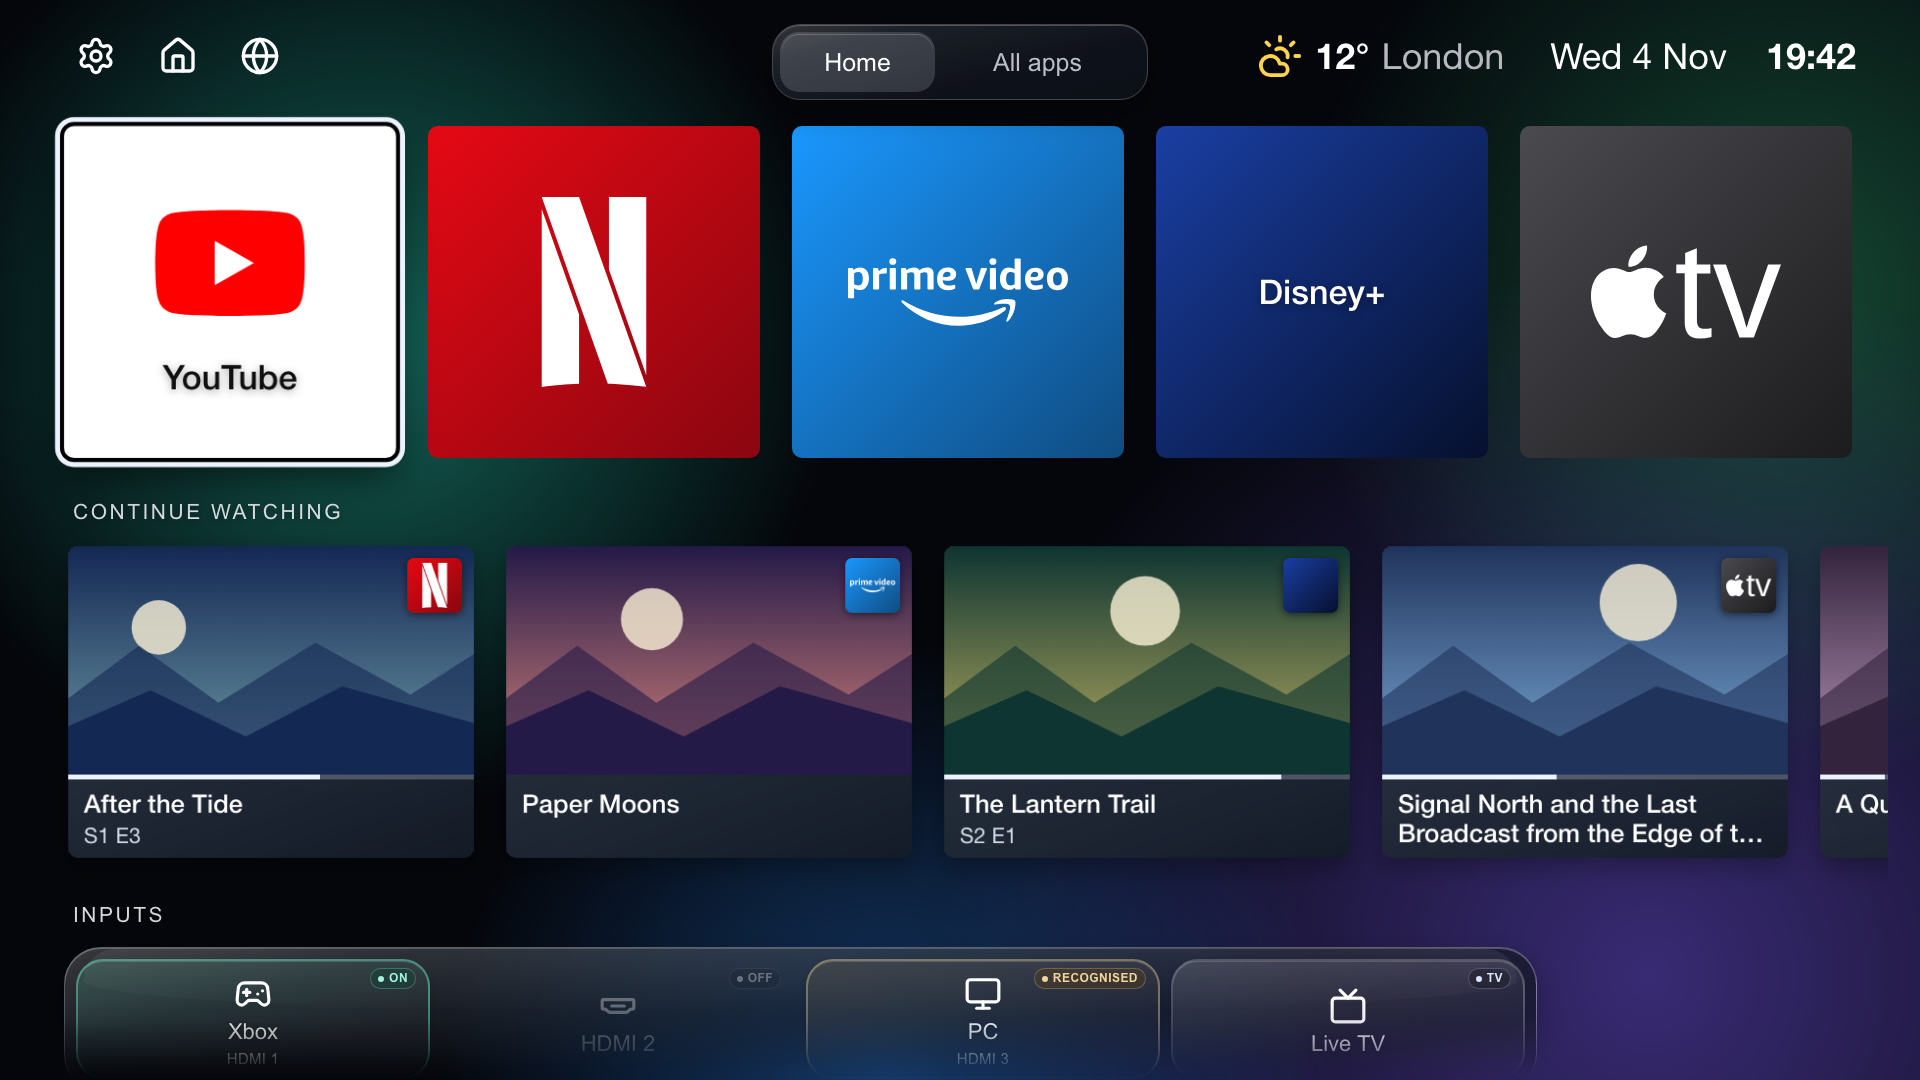
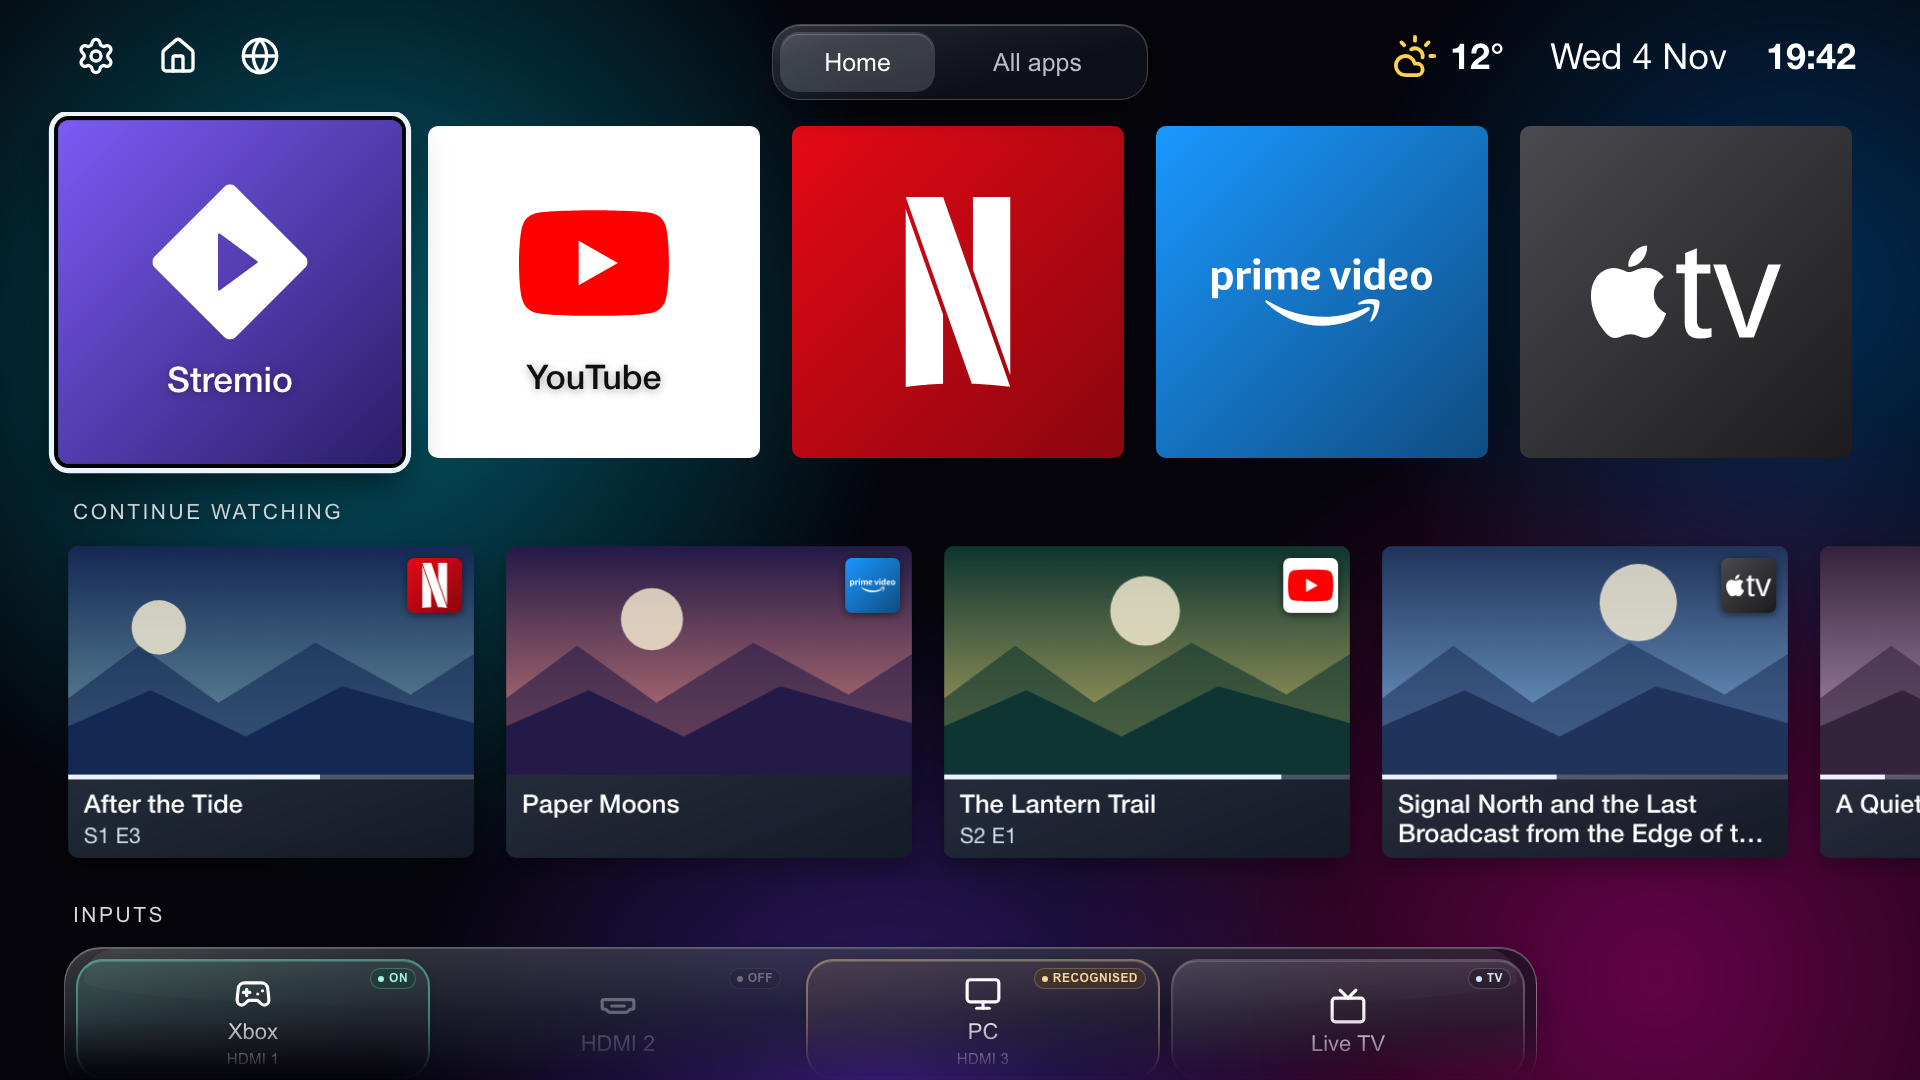
fix(launcher): correct Home scrolling and wallpaper controls (#134)
Follow-up to #125 and #132. Fix visible clipping and focus issues in
Home, All apps, and Wallpaper settings.

## What changed

- **Continue Watching.** Clip the carousel at the screen edges and let
the focused card's shadow fade below the row. All five sample programmes
show source badges in the browser demo.
- **All apps.** Keep Back to Top in place when Up returns focus to the
last app row. Give the button a solid fill, a brighter border, and a
separate focus ring.
- **Wallpaper.** Centre the play icon and Preview label on one line.
Keep wallpaper labels at the same size and weight as focus moves.

## Validation

- Formatting, lint, TypeScript, the Chromium 69 build, 268 Node tests,
and 131 Chromium tests passed.
- Checked both screen edges, Classic and Glass focus, demo badges, and
entering and leaving Preview.

## Screenshots

Captured in Chromium at 1920 × 1080 using the Glass browser demo. The
Wallpaper images are cropped to the controls.

**Continue Watching after scrolling right**

<img width="960" alt="Continue Watching cards reach the screen edge,
with all five source badges visible"
src="https://github.com/user-attachments/assets/a9f765d9-89b2-45bf-8b19-0c6be49f4091"
/>

**All apps after pressing Up from Back to Top**

<img width="960" alt="The last app row has focus and the Back to Top
button remains visible at the bottom"
src="https://github.com/user-attachments/assets/e9b240fb-abde-45be-b53d-8f607e27151e"
/>

**Wallpaper Preview**
[…]

diff --git a/launcher/src/home/state/createHomeController.ts b/launcher/src/home/state/createHomeController.ts
@@ -117,6 +117,7 @@ export const createHomeController = (
   const { runtime, settings, inventory, nodes } = env;
   const state = createStore<HomeState>({
     page: "home",
+    appsEndOffset: 0,
     scroll: 0,
     continueOffset: 0,
     selected: "",
@@ -214,27 +215,27 @@ export const createHomeController = (
       }
     }
     const mainTop = main.getBoundingClientRect().top;
-    if (selected === "back-to-top") {
-      const lastApp = nodes.get(list[list.length - 2][0]);
-      const grid = lastApp?.parentElement;
-      if (lastApp && grid) {
-        // The grid edge stays fixed while the last app's focus scale animates.
-        const lastRowTop = grid.getBoundingClientRect().bottom - lastApp.offsetHeight;
-        update({ scroll: Math.max(0, lastRowTop - mainTop - APPS_END_CLEARANCE) });
-        return;
-      }
+    const lastAppRow = pending.page === "apps" ? list[list.length - 2] : undefined;
+    const lastApp = lastAppRow && nodes.get(lastAppRow[0]);
+    const grid = lastApp?.parentElement;
+    // The grid edge stays fixed while the last app's focus scale animates.
+    const lastRowTop = lastApp && grid ? grid.getBoundingClientRect().bottom - lastApp.offsetHeight - mainTop : 0;
+    const appsEndOffset = Math.max(0, Math.round(lastRowTop - APPS_END_CLEARANCE));
+    if (selected === "back-to-top" || (pending.scroll === pending.appsEndOffset && lastAppRow?.includes(selected))) {
+      update({ appsEndOffset, scroll: appsEndOffset });
+      return;
     }
     const rect = node.getBoundingClientRect();
     const origin = main.parentElement?.getBoundingClientRect().top || 0;
     const scroll = getScrollOffset({
       selected,
       rows: list,
-      previous: state.getSnapshot().scroll,
+      previous: pending.scroll,
       top: rect.top - mainTop + origin,
       bottom: rect.bottom - mainTop + origin,
       origin,
     });
-    update({ scroll });
+    update({ appsEndOffset, scroll });
   };
   const select = (selected: string) => {
     if (state.getSnapshot().selected !== selected) {
@@ -258,7 +259,7 @@ export const createHomeController = (
   const showPage = (page: Page) => {
     cancelPress();
     endMove();
-    update({ page, scroll: 0, menu: null, selected: page === "home" ? "home-tab" : "apps-tab" });
+    update({ page, appsEndOffset: 0, scroll: 0, menu: null, selected: page === "home" ? "home-tab" : "apps-tab" });
     focus();
   };
   const activate = (key: string) => {

diff --git a/launcher/src/home/Home.tsx b/launcher/src/home/Home.tsx
@@ -16,7 +16,7 @@ import type { HomeEnvironment } from "./types";
 export const Home = ({ env }: { env: HomeEnvironment }) => {
   const { t } = useTranslation();
   const settings = useStore(env.settings);
-  const { page, active, draft, scroll, selected } = useStore(env.state);
+  const { page, active, appsEndOffset, draft, scroll } = useStore(env.state);
   const { apps, inputs, items, ready } = useStore(env.inventory);
   const home = draft || (settings.homeInitialized ? settings.home : [env.runtime.config.FIREPLACE_ID]);
   const visibleHome = home.filter(
@@ -31,19 +31,21 @@ export const Home = ({ env }: { env: HomeEnvironment }) => {
     visibleHome.length > 0 &&
     visibleHome.length <= env.columns(settings);
   const viewportClass = "content-viewport" + (scroll > 0 ? " is-scrolled" : "");
+  const atAppsEnd = page === "apps" && scroll === appsEndOffset;
+  const dockClass = dockInputs ? "rows--dock-inputs" : undefined;
   useLayoutEffect(() => {
     env.bridge.focus();
   }, [env, page, apps, inputs, items, ready, settings.home, settings.homeInitialized, draft, size]);
   return (
     <>
       <HomeHeader env={env} />
-      <div class={viewportClass + (selected === "back-to-top" ? " is-at-apps-end" : "")} aria-hidden={!active}>
+      <div class={viewportClass + (atAppsEnd ? " is-at-apps-end" : "")} aria-hidden={!active}>
         <div class="content-mask">
           <main
             id="rows"
-            class={dockInputs ? "rows--dock-inputs" : undefined}
+            class={page === "apps" ? "rows--apps" : dockClass}
             ref={env.rows}
-            style={{ "--home-offset": -scroll + "px" }}
+            style={{ "--home-offset": -scroll + "px", "--apps-end-offset": appsEndOffset + "px" }}
           >
             <div class="home-page-surface" data-page={page}>
               <AppGrid

diff --git a/launcher/css/home.css b/launcher/css/home.css
@@ -1,6 +1,7 @@
 /* Home viewport, page movement and content spacing. */
 body {
   --home-content-padding: 8px;
+  --home-side-padding: 64px;
 }
 
 .content-viewport {
@@ -20,10 +21,13 @@ body {
   justify-content: center;
   width: 64px;
   height: 64px;
-  margin: 64px auto 0;
-  border: 2px solid var(--header-tab-border);
+  position: absolute;
+  bottom: calc(var(--home-bottom-fade) - var(--apps-end-offset));
+  left: 50%;
+  transform: translateX(-50%);
+  border: 2px solid var(--back-to-top-border);
   border-radius: 50%;
-  background: var(--header-tab-surface);
+  background: var(--back-to-top-surface);
   color: var(--fg);
   cursor: pointer;
 }
@@ -32,23 +36,16 @@ body {
   height: 32px;
 }
 .back-to-top.focused {
-  border-color: var(--focus);
-  background: var(--header-focus-surface);
-  box-shadow: var(--header-focus-shadow);
+  box-shadow:
+    0 0 0 2px var(--bg),
+    0 0 0 5px var(--focus);
 }
-.is-at-apps-end #rows,
+.rows--apps,
 .rows--dock-inputs {
   height: 100%;
 }
-.is-at-apps-end .back-to-top {
-  position: absolute;
-  bottom: calc(var(--home-bottom-fade) + var(--home-offset));
-  left: 50%;
-  margin: 0;
-  transform: translateX(-50%);
-}
 main {
-  padding: var(--home-content-padding) 64px 0;
+  padding: var(--home-content-padding) var(--home-side-padding) 0;
   transition: transform 0.22s ease-out;
   will-change: transform;
 }

diff --git a/launcher/src/devContinueWatching.ts b/launcher/src/devContinueWatching.ts
@@ -5,9 +5,9 @@ import type { LauncherRuntime } from "./platform/tizen/launcherRuntime";
 const programmes = [
   ["After the Tide", "Netflix", 1, 1, 3, 62, "#142854", "#6e9ba8"],
   ["Paper Moons", "Prime Video", 3, 0, 0, 0, "#241a48", "#d5837c"],
-  ["The Lantern Trail", "Disney+", 6, 2, 1, 83, "#0e3531", "#bbaf63"],
+  ["The Lantern Trail", "YouTube", 0, 2, 1, 83, "#0e3531", "#bbaf63"],
   ["Signal North and the Last Broadcast from the Edge of the World", "Apple TV", 8, 0, 0, 43, "#20345b", "#7baad9"],
-  ["A Quiet Orbit", "BBC iPlayer", 9, 0, 0, 16, "#34233d", "#b998ba"],
+  ["A Quiet Orbit", "Prime Video", 3, 0, 0, 16, "#34233d", "#b998ba"],
 ] as const;
 
 const artwork = (dark: string, light: string, index: number) =>

diff --git a/launcher/css/settings.css b/launcher/css/settings.css
@@ -16,11 +16,6 @@
   color: #fff;
   text-shadow: 0 1px 4px #000;
 }
-#editor .swatch.focused span {
-  font-size: 26px;
-  font-weight: 700;
-}
-
 body.previewing #editor.settings-drawer {
   visibility: hidden;
 }
@@ -34,7 +29,6 @@ body.previewing #editor.settings-drawer {
 }
 #editor .choice-option .ui-icon {
   margin-right: 8px;
-  vertical-align: middle;
 }
 #editor .fill {
   position: absolute;
@@ -690,6 +684,10 @@ body.glass-ui #editor .pill.unit[aria-pressed="true"]:not(.focused) {
   margin: -14px 0 40px;
   gap: 12px;
   flex-wrap: wrap;
+}
+#editor .speed-row .choice-option > span {
+  display: flex;
+  align-items: center;
 }
 #editor .slider {
   display: flex;

diff --git a/launcher/css/continue-watching.css b/launcher/css/continue-watching.css
@@ -1,8 +1,8 @@
 /* continue watching: component-owned styles. */
 .continue-viewport {
-  overflow: hidden;
-  margin: -16px;
-  padding: 16px;
+  /* Home's content viewport clips at the screen edges. */
+  margin: 0 calc(-1 * var(--home-side-padding));
+  padding: 0 var(--home-side-padding);
 }
 #continue-items {
   position: relative;
@@ -113,8 +113,4 @@ body.glass-ui .continue-card.focused {
     background: var(--continue-surface);
     box-shadow: var(--continue-shadow);
   }
-}
-#home-root .continue-viewport {
-  margin: -32px;
-  padding: 32px;
 }

diff --git a/launcher/css/themes.css b/launcher/css/themes.css
@@ -28,6 +28,8 @@ body {
   --header-focus-surface: rgba(124, 92, 255, 0.16);
   --header-focus-shadow: none;
   --header-gear-border: 0px;
+  --back-to-top-surface: #30343f;
+  --back-to-top-border: #a1a9ba;
   --settings-surface: #1c1c1e;
   --settings-main-surface: #141416;
   --settings-border: #444448;

diff --git a/launcher/src/home/types.ts b/launcher/src/home/types.ts
@@ -20,6 +20,7 @@ export interface HomeMenuChoice {
 }
 export interface HomeState {
   readonly active: boolean;
+  readonly appsEndOffset: number;
   readonly continueOffset: number;
   readonly draft: readonly string[] | null;
   readonly menu: Readonly<{ id: string; selected: number }> | null;
